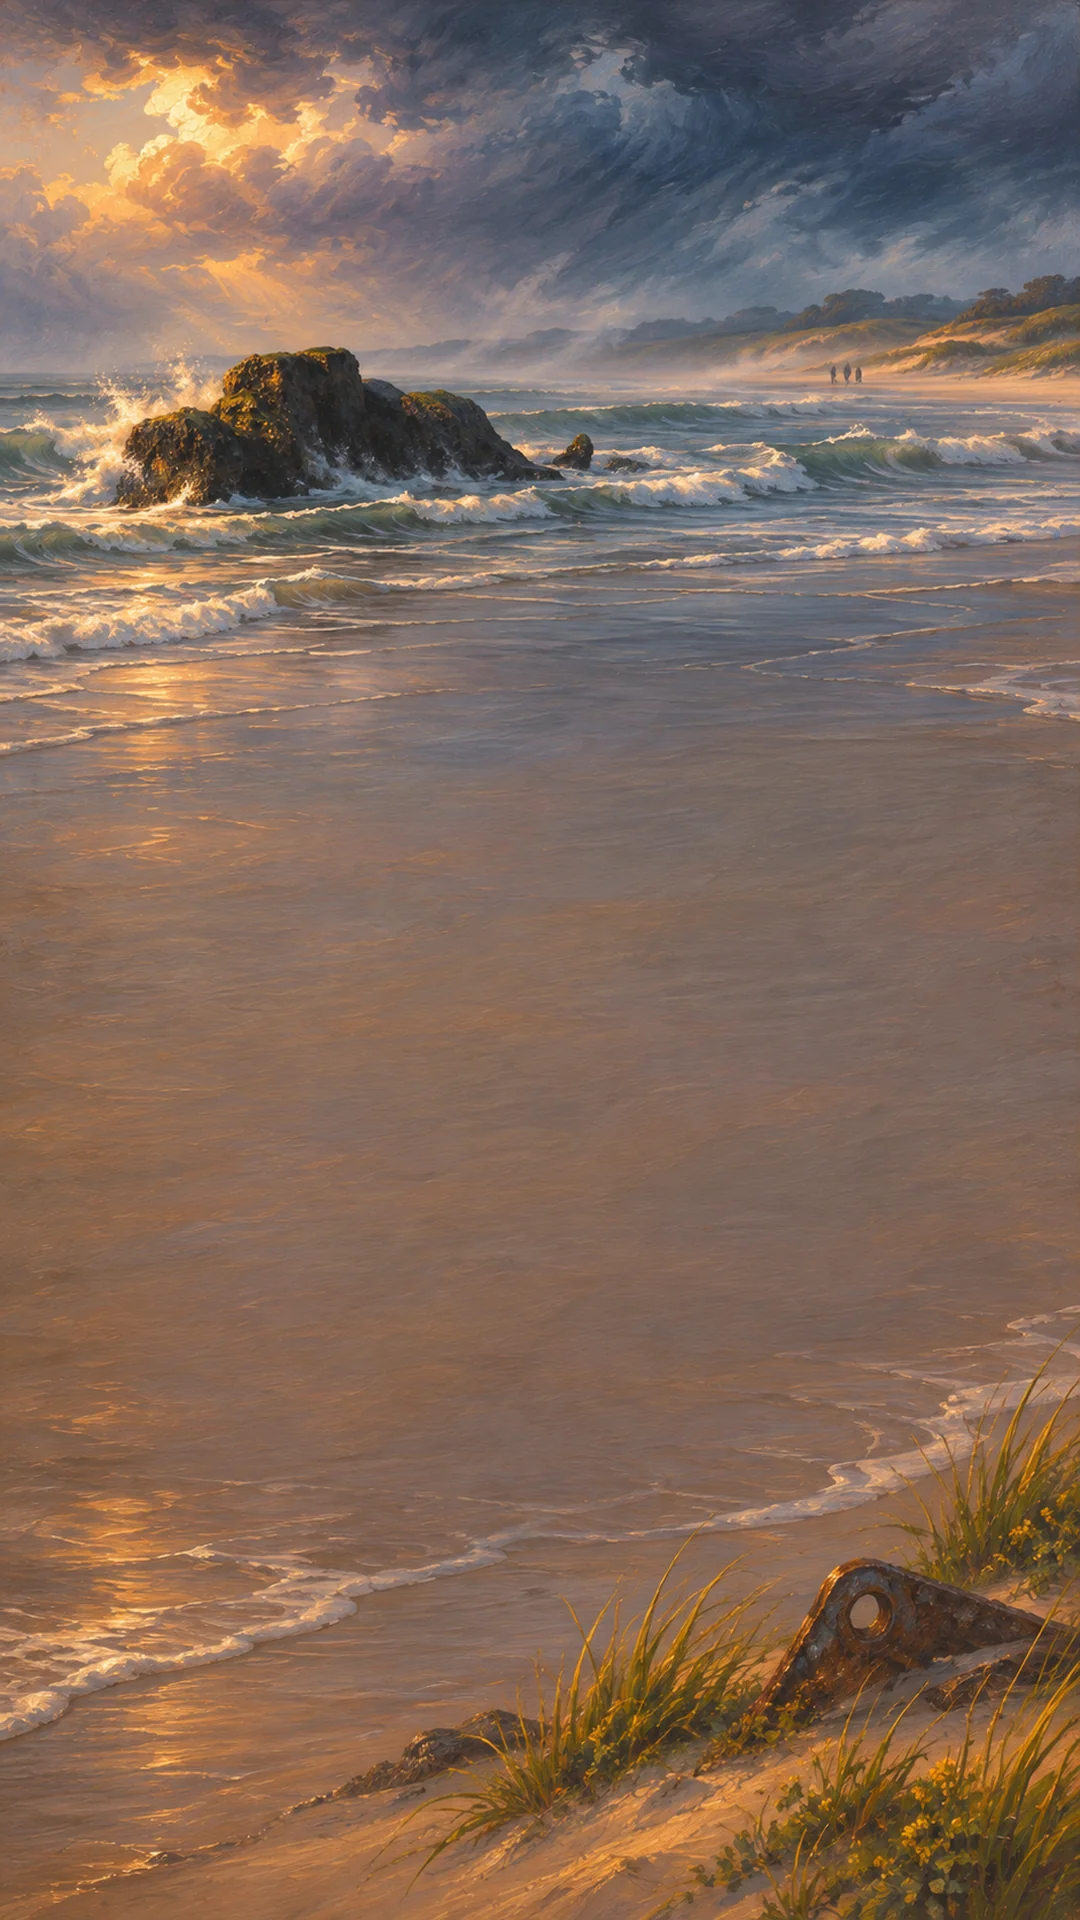
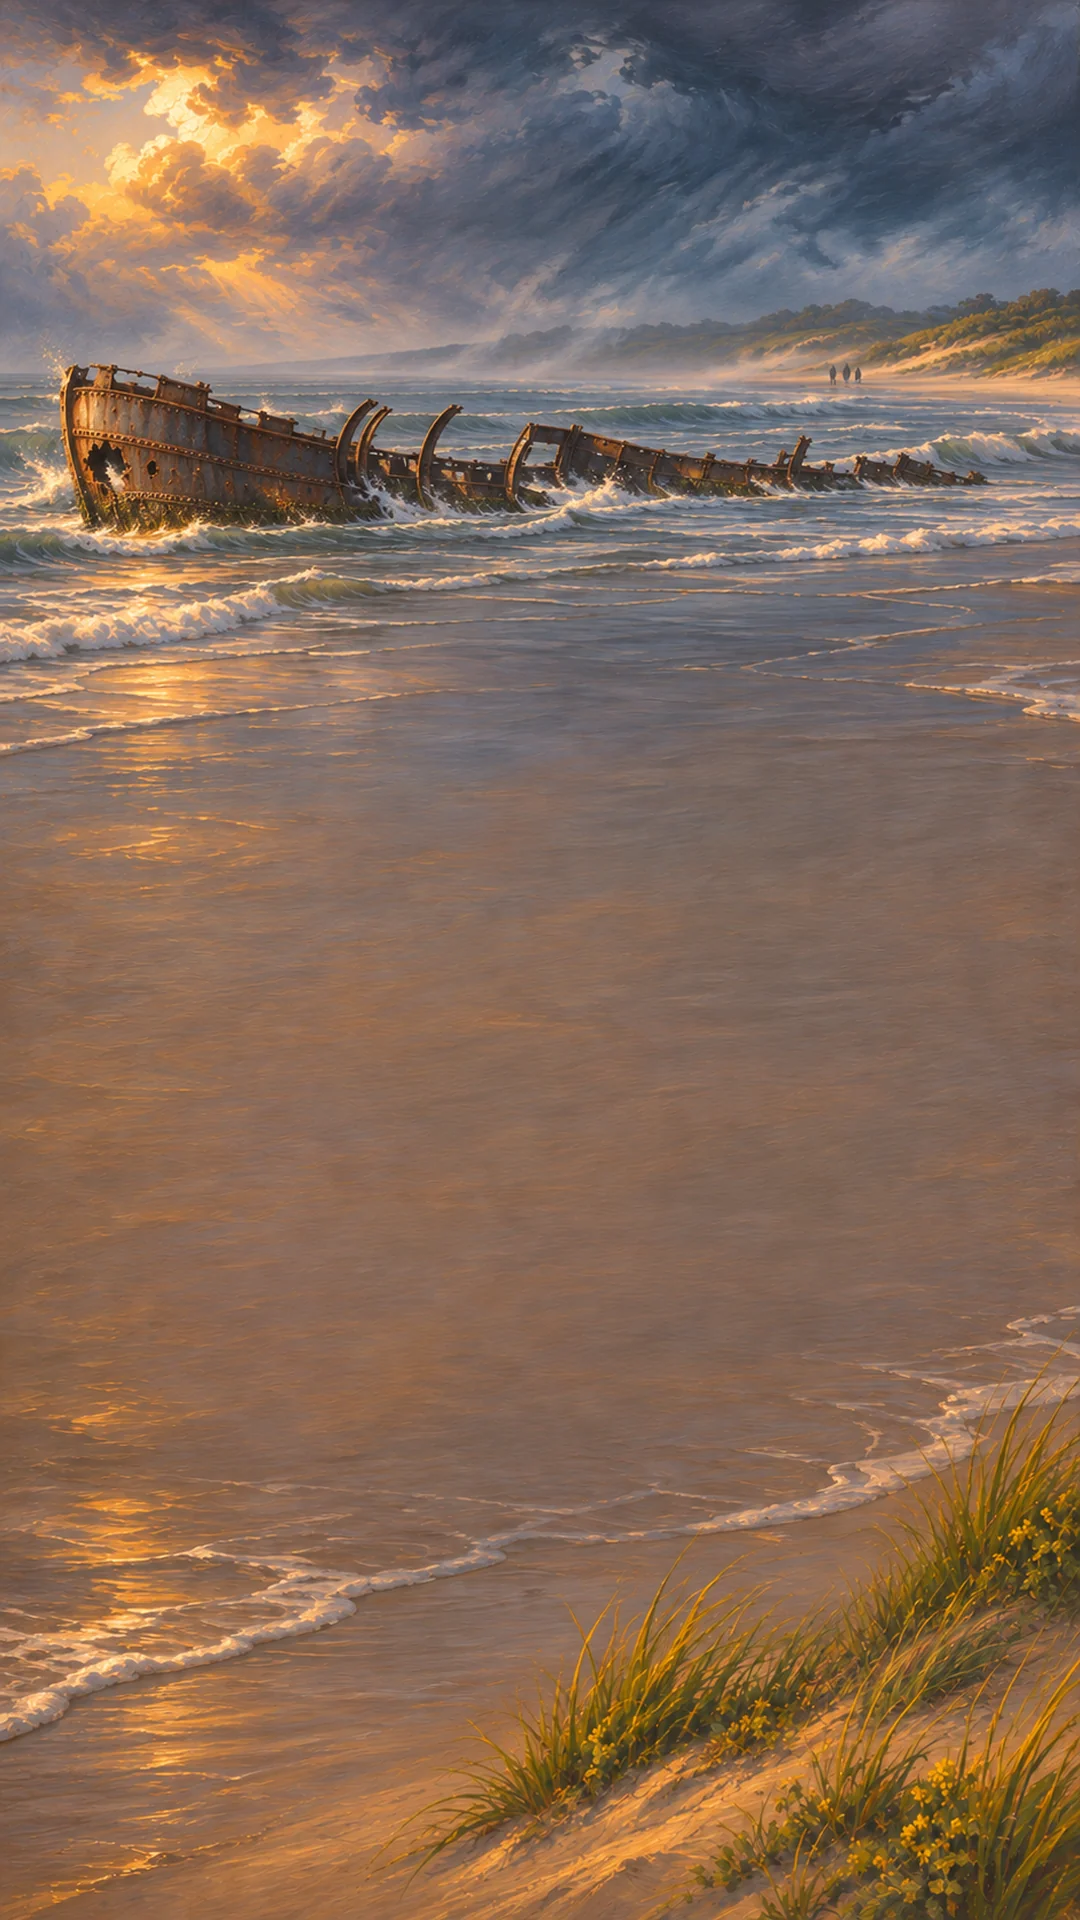
Fondos corregidos: el Cristo de Lucho en Los Botes, el casco del Arinos y el monte de ombúes sin el castillo

diff --git a/BITACORA.md b/BITACORA.md
@@ -2178,3 +2178,5 @@ Llegó `Rocha-barrios-fondos.zip` del agente de arte: 31 niveles en horizontal (
   - Server 158; web 475, con `historia.test.tsx` reescrito para los barrios y un caso nuevo para la despedida del barrio.
   - E2E del cooperativo, en La Paloma 2.
   - Capturas revisadas a mano: los barrios en el celular y la compu, el barrio y la previa.
+- **Fondos corregidos (mismo día):** llegó `Rocha-barrios-fondos(2).zip` con los tres que había que rehacer. En La Paloma 2, el Cristo de Lucho ahora es una figura de piedra parada que mira al mar; en el Arinos se ve el casco; en el monte de ombúes ya no está el castillo. Se copiaron solo esos seis archivos, porque Santa Teresa y Chuy viene con la numeración de antes de la Laguna Negra.
+- **Para probar sin tocar producción:** el servidor se levanta con `DATABASE_URL` y `SUPABASE_URL` vacías y `TRUCO_DIR_BASE=datos/base-barrios`, así usa una base local y el login de prueba. La web va con `PUERTO_SERVIDOR`, y `cloudflared tunnel --url` da el link temporal. `pnpm compartir` tal cual usaría la base de producción, porque el `.env` del servidor la tiene puesta.
